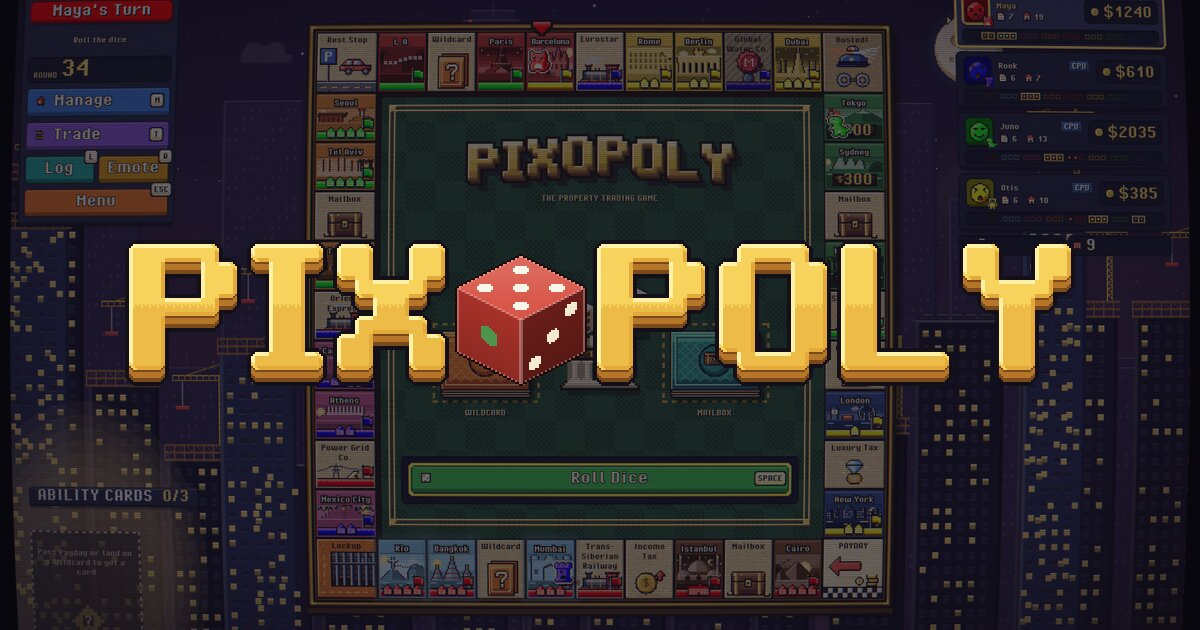
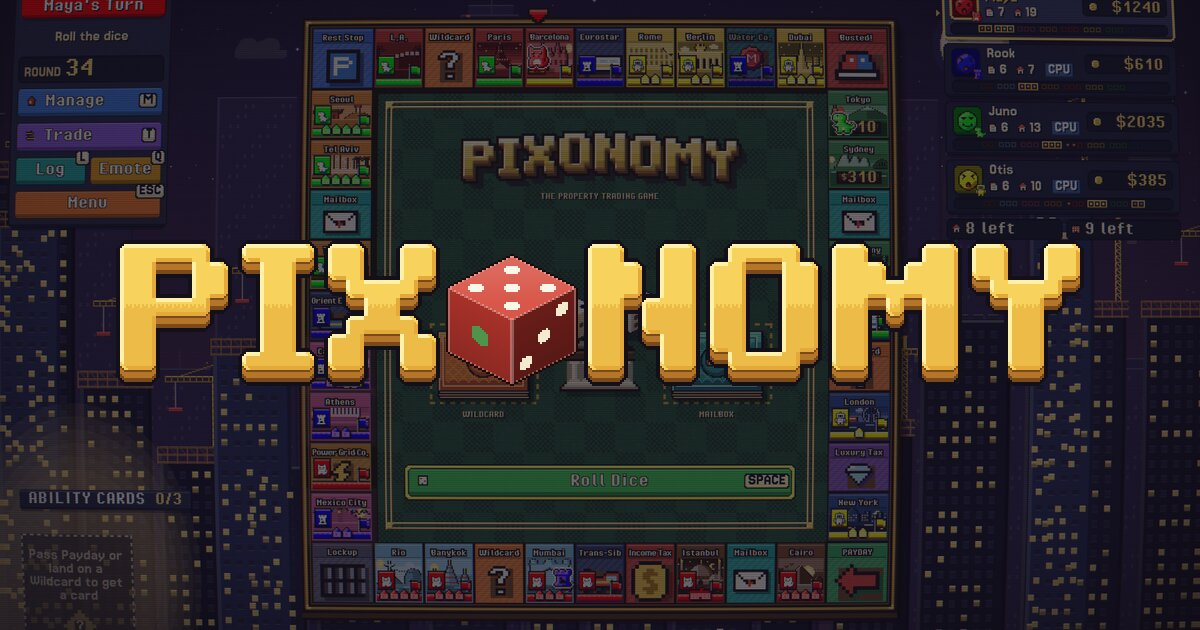
Rename Pixopoly to Pixonomy

diff --git a/src/projects/pixopoly.md b/src/projects/pixopoly.md
@@ -1,5 +1,5 @@
 ---
-title: Pixopoly
+title: Pixonomy
 order: 2
 year: 2026
 tech: [Godot, Pixel Art]
@@ -14,7 +14,7 @@ stats:
 
 ## The Idea
 
-Roll. Buy. Build. Repeat. Pixopoly keeps the buy-the-world fantasy of classic property games and fixes the parts that make people quit halfway: one runaway leader, long dead turns and trades nobody trusts.
+Roll. Buy. Build. Repeat. Pixonomy keeps the buy-the-world fantasy of classic property games and fixes the parts that make people quit halfway: one runaway leader, long dead turns and trades nobody trusts.
 
 ## Features
 
@@ -30,7 +30,7 @@ In development and coming soon to Steam.
 ## Screenshots
 
 <figure class="shot">
-  <img src="/img/projects/pixopoly-og.jpg" alt="Pixopoly logo over the game board mid-game" loading="lazy">
+  <img src="/img/projects/pixopoly-og.jpg" alt="Pixonomy logo over the game board mid-game" loading="lazy">
   <figcaption>Round 34 on the city board.</figcaption>
 </figure>
 

diff --git a/src/now.md b/src/now.md
@@ -49,7 +49,7 @@ Going deeper into ML engineering: getting models out of notebooks and into pipel
 ## Building
 
 - **[Savory](https://twitter-bookmark-organizer.vercel.app)**: a browser extension that turns your X bookmarks into an organized, searchable library, with tags, folders, notes and on-device search by meaning. No account, no server.
-- **[Pixopoly](https://pixopoly-website.vercel.app)**: a pixel-art property trading game for 2 to 6 players, built in Godot. Play online, on your network or on one PC. Coming soon to Steam.
+- **[Pixonomy](https://pixopoly-website.vercel.app)**: a pixel-art property trading game for 2 to 6 players, built in Godot. Play online, on your network or on one PC. Coming soon to Steam.
 - **phonetocam**: turns an Android phone into a low-latency webcam for Windows, written in Rust.
 - This website. It keeps growing rooms.
 
